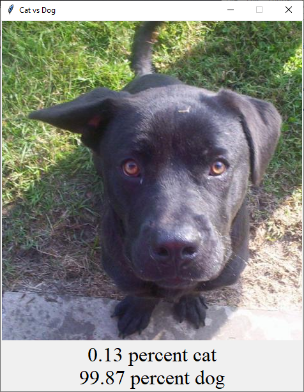
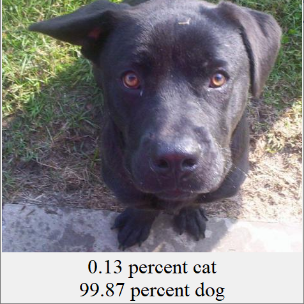
Update: browser game image and styling of images for each project entry

diff --git a/components/DodgeTheBullets.tsx b/components/DodgeTheBullets.tsx
@@ -11,11 +11,11 @@ export const DodgeTheBullets: React.FC<DodgeTheBulletsProps> = ({}) => {
       className="block"
     >
       <div className="flex w-[1000px] h-[250px] project-entry">
-        <div className="w-[200px] h-full  p-4">
-          <div className="w-full h-full relative rounded-2xl overflow-hidden">
+        <div className="w-[200px] h-full p-4 flex flex-col justify-center">
+          <div className="w-[180px] h-[180px] relative rounded-2xl overflow-hidden">
             <Image
-              src="/dogPic.png"
-              alt="dog"
+              src="/browserGame.png"
+              alt="Gameplay of Dodge the Bullets"
               layout="fill"
               objectFit="contain"
             />

diff --git a/components/ImageClassifier.tsx b/components/ImageClassifier.tsx
@@ -7,8 +7,8 @@ export const ImageClassifier: React.FC<ImageClassifierProps> = ({}) => {
   return (
     <a href="/" target="_blank" className="block">
       <div className="flex w-[1000px] h-[250px] project-entry">
-        <div className="w-[200px] h-full p-4">
-          <div className="w-full h-full relative rounded-2xl overflow-hidden">
+        <div className="w-[200px] h-full p-4 flex flex-col justify-center">
+          <div className="w-[180px] h-[180px] relative rounded-2xl overflow-hidden">
             <Image
               src="/dogPic.png"
               alt="dog"

diff --git a/components/sections/Experience.tsx b/components/sections/Experience.tsx
@@ -32,7 +32,7 @@ export const Experience: React.FC<ExperienceProps> = ({}) => {
             )}
           </div>
         </div>
-        <div className="mt-20">
+        <div className="pt-12">
           <TechnicalSkills />
         </div>
       </div>
